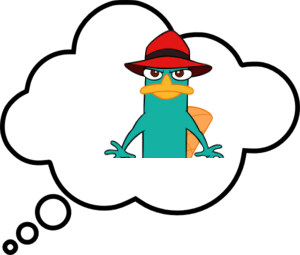
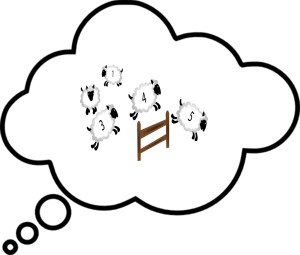
added the sheep png and trimmed positions a bi

Changed region(s): [[0.27, 0.1098, 0.75, 0.6314]]

diff --git a/xkaa.py b/xkaa.py
@@ -79,11 +79,12 @@ class Puppet():
 
 	def make_dream(self):
 		# combine images together
-		posx = 100
-		posy = 30
+		posx = 80
+		posy = 65
+		width = 128
 		im = gtk.Image()
 		pixbuf = gtk.gdk.pixbuf_new_from_file(self.dreamed)
-		scaled_buf = pixbuf.scale_simple(128,128,gtk.gdk.INTERP_BILINEAR)
+		scaled_buf = pixbuf.scale_simple(width,(width*3)/4,gtk.gdk.INTERP_BILINEAR)
 		scaled_buf.save(self.minidream,'png')
 		myimage = combine_sources(posx,posy,self.dreambase,self.minidream,self.dreamballoon)
 		return self.dreamballoon
